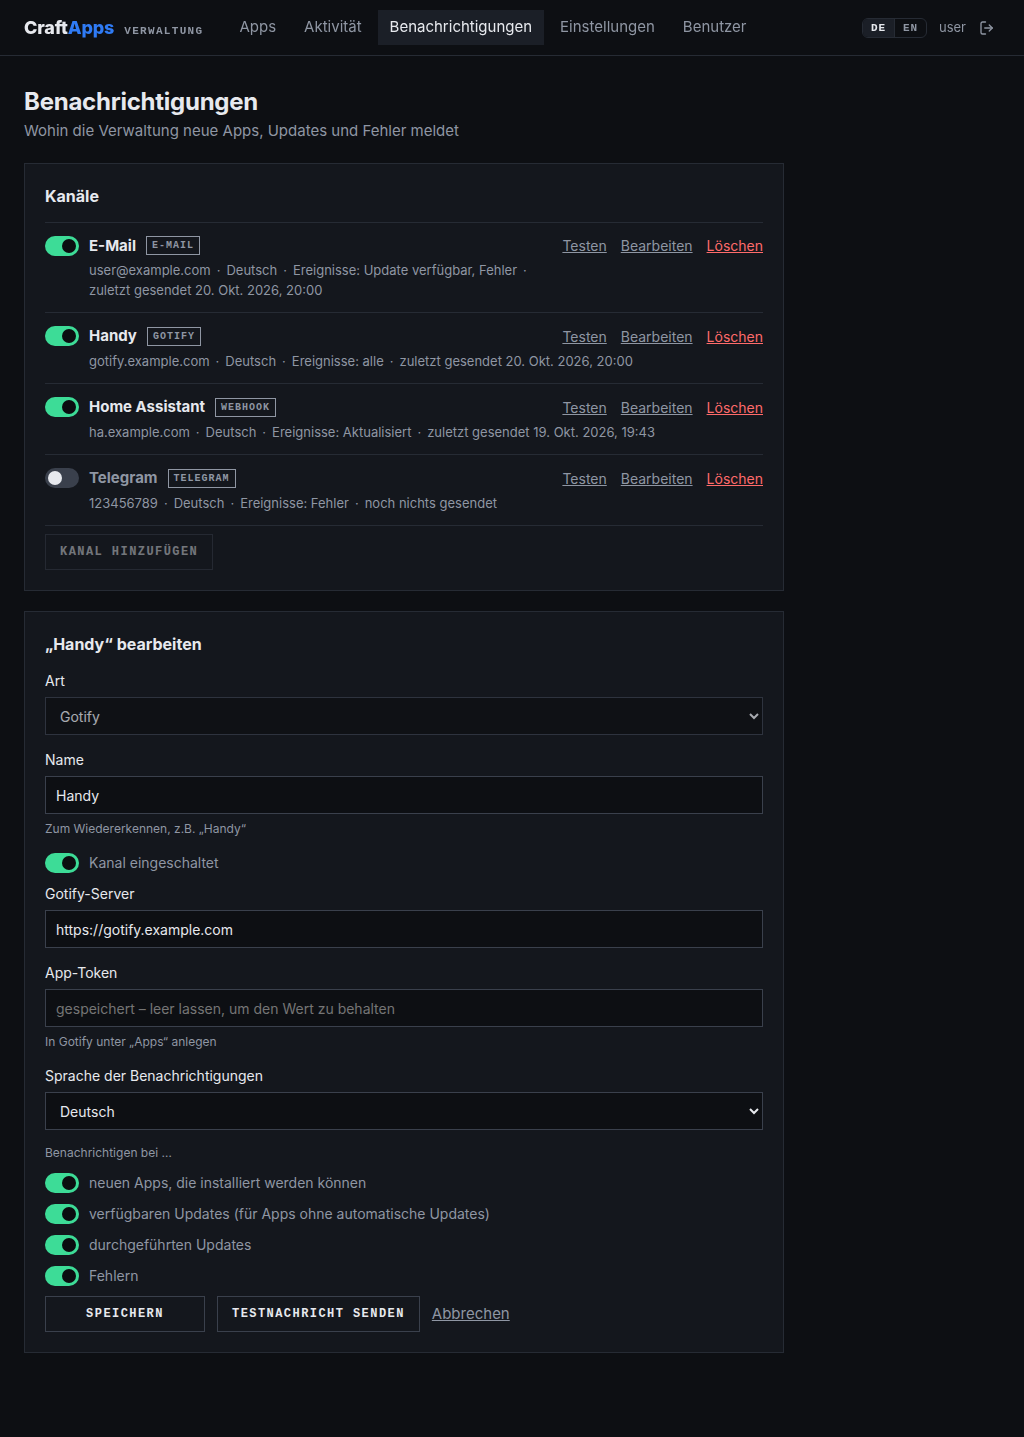
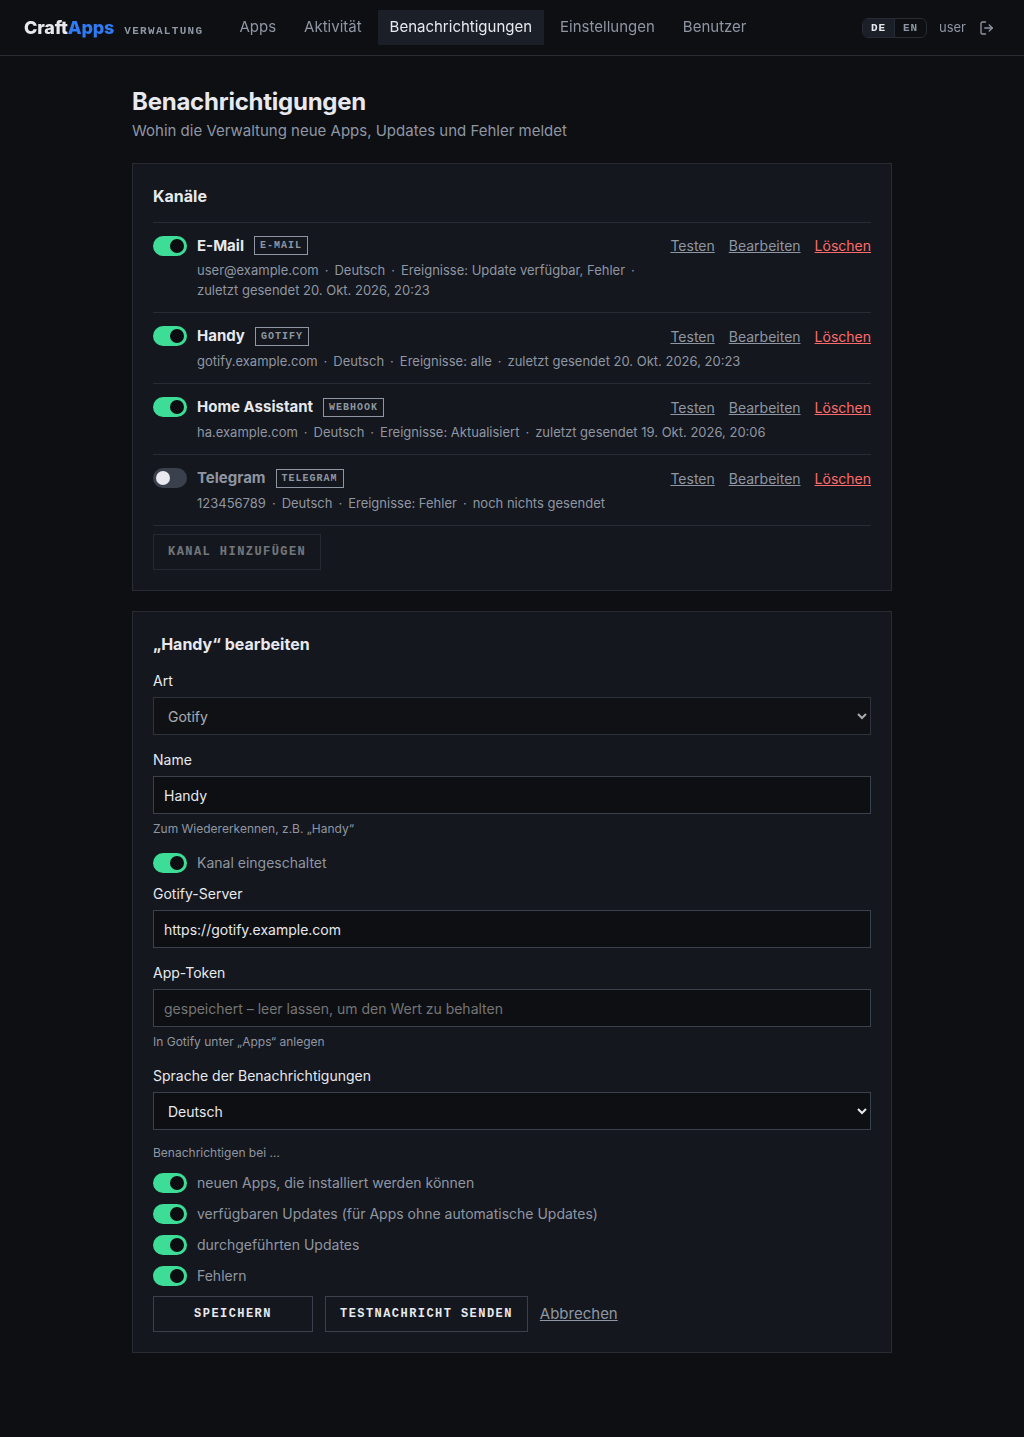
fix(ticket#2): center the pages with forms on the screen

diff --git a/admin/src/web/App/App.tsx b/admin/src/web/App/App.tsx
@@ -11,13 +11,14 @@ import { NotificationsPage } from '../pages/NotificationsPage/NotificationsPage'
 import { SettingsPage } from '../pages/SettingsPage/SettingsPage';
 import { UsersPage } from '../pages/UsersPage/UsersPage';
 
-// The ids end up in the URL (#einstellungen) and stay the same in every language
+// The ids end up in the URL (#einstellungen) and stay the same in every language. Pages with
+// forms are a narrow column in the middle of the screen, the others use its width.
 const TABS = [
-  { id: 'apps', label: 'tab.apps' },
-  { id: 'aktivitaet', label: 'tab.activity' },
-  { id: 'benachrichtigungen', label: 'tab.notifications' },
-  { id: 'einstellungen', label: 'tab.settings' },
-  { id: 'benutzer', label: 'tab.users' },
+  { id: 'apps', label: 'tab.apps', column: false },
+  { id: 'aktivitaet', label: 'tab.activity', column: false },
+  { id: 'benachrichtigungen', label: 'tab.notifications', column: true },
+  { id: 'einstellungen', label: 'tab.settings', column: true },
+  { id: 'benutzer', label: 'tab.users', column: true },
 ] as const;
 
 type TabId = (typeof TABS)[number]['id'];
@@ -143,7 +144,7 @@ export function App() {
           </button>
         </div>
       </header>
-      <main>
+      <main className={TABS.find((entry) => entry.id === tab)?.column ? 'column' : undefined}>
         {tab === 'apps' && <AppsPage />}
         {tab === 'aktivitaet' && <ActivityPage />}
         {tab === 'benachrichtigungen' && <NotificationsPage />}

diff --git a/admin/src/web/styles/_forms.scss b/admin/src/web/styles/_forms.scss
@@ -1,8 +1,8 @@
-// Panels and form fields (SettingsPage, UsersPage, Login)
+// Panels and form fields (NotificationsPage, ChannelForm, SettingsPage, UsersPage, Login)
 @use 'shared';
 
 .panel {
-  max-width: 760px;
+  max-width: shared.$column;
   margin-bottom: 20px;
   padding: 20px;
   background: var(--surface);
@@ -52,7 +52,7 @@
 .sticky-actions {
   position: sticky;
   bottom: 0;
-  max-width: 760px;
+  max-width: shared.$column;
   padding: 12px 0;
   background: var(--bg);
 }

diff --git a/admin/src/web/styles/_shared.scss b/admin/src/web/styles/_shared.scss
@@ -27,6 +27,9 @@ $narrow: 720px;
 // in German the bar needs about 950px in one row
 $menu: 1000px;
 
+// Width of the pages with forms (notifications, settings, users) – a column in the middle
+$column: 760px;
+
 // Hairlines between areas, the stronger one around controls
 $hairline: 1px solid var(--line);
 $hairline-strong: 1px solid var(--line-strong);

diff --git a/admin/src/web/styles/_page.scss b/admin/src/web/styles/_page.scss
@@ -6,6 +6,11 @@ main {
   margin: 0 auto;
   padding: 28px 24px 64px;
 
+  // Pages with forms: heading, panels and notices in a column in the middle (plus padding)
+  &.column {
+    max-width: calc(#{shared.$column} + 2 * 24px);
+  }
+
   @media (max-width: shared.$narrow) {
     padding: 20px 16px 48px;
   }

diff --git a/CLAUDE.md b/CLAUDE.md
@@ -35,11 +35,11 @@ accounts.
 The admin UI's styles are SCSS, compiled by Vite with `sass`. Each component keeps its partial
 in its own folder (`admin/src/web/App/`, `components/*/`, `pages/*/`); `admin/src/web/styles/`
 holds the global ones: `_shared.scss` with everything that recurs (colors, hairlines, the
-breakpoints, tone colors, the label mixin), plus base, buttons, page frame, forms and tables.
-`styles/index.scss` loads all partials – add new ones there; their order is the cascade order,
-so on equal specificity a later partial wins. Colors stay CSS custom properties – React sets
-the app color `--c` at runtime. The start page's CSS sits inline in the HTML that
-`admin/src/server/apps/overview.ts` generates.
+breakpoints, the width of the form pages, tone colors, the label mixin), plus base, buttons,
+page frame, forms and tables. `styles/index.scss` loads all partials – add new ones there;
+their order is the cascade order, so on equal specificity a later partial wins. Colors stay
+CSS custom properties – React sets the app color `--c` at runtime. The start page's CSS sits
+inline in the HTML that `admin/src/server/apps/overview.ts` generates.
 
 ## Icons
 
